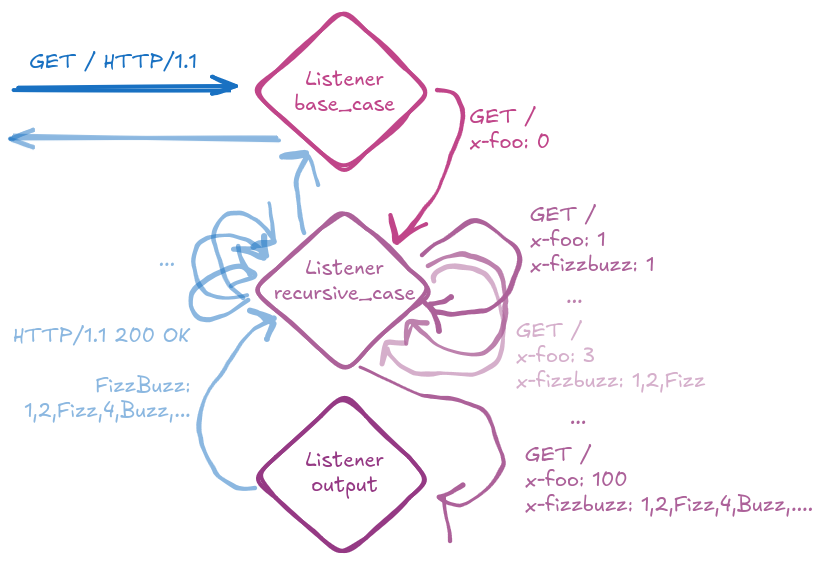
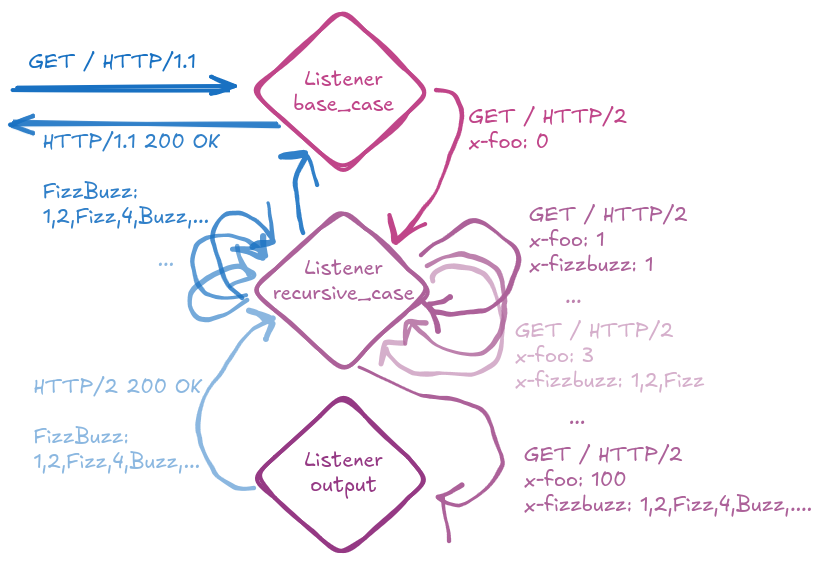
update architecture diagram for http/2

diff --git a/README.md b/README.md
@@ -42,7 +42,9 @@ Or in the browser directly:
 
 ![Architecture of the config.yaml](img/architecture.png)
 
-### Internals WIP
+### Internals
+
+#### HTTP/2 Upgrade
 
 Using Wireshark, we can see that one end2end FizzBuzz requests results in a total of 717 packets.
 This is because all internal requests default to HTTP/1.1.
@@ -56,3 +58,7 @@ With the internal listeners upgraded to HTTP/2, we are down to 333 packets in to
 This is because the recursive self-requests are now done over the same TCP connection, resulting in "only" 303 packets total.
 
 ![Screenshot of Wireshark, shoing a snippet of the single internal recursion TCP connection](img/wireshark_http2_recursion_annotated.png)
+
+Trying to upgrade further, to HTTP/3, would likely be a step backward, since HTTP/3 mandates encryption, which is pointless overhead for localhost connections.
+We could tune our setup further, by replacing the localhost TCP connection with a Unix Domain Socket.
+But we would lose a bit of the networking vibes here.
